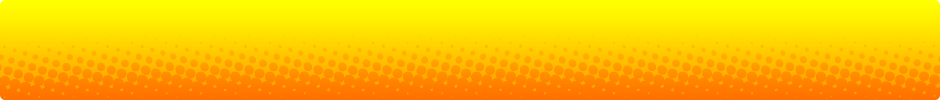
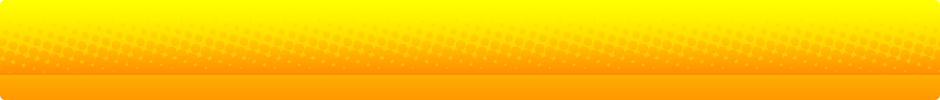
Tightened up nav and main nav
edited: _2Bhip_styles.css, index.html, mainNavBackground.png

diff --git a/_2Bhip_styles.css b/_2Bhip_styles.css
@@ -239,25 +239,26 @@ HEADER
 	width: 940px;	
 	background-color: #ffcc00;
 	margin: auto;
+	z-index: 1;
 }
 
 .mainNavBarContainer img {
 	position: absolute;
-	z-index: 1;	
+	top: 0px;
+	z-index: 0;	
 }
 
 .mainNavBarLinksContainer {
 	position: absolute;
 	height: 100px;
-	width: 940px;
-	z-index: 2;		
+	width: 940px;	
 }
 
 .mainNavBarLinks {
 	z-index: 3;
 	height: 40px;
 	width: 155px;
-	margin-top: 33px;
+	margin-top: 20px;
 	margin-left: 15px;
 	font-size: 31px;
 	float: left;	
@@ -268,9 +269,13 @@ HEADER
 }
 
 .navBarContainer {
+	position: absolute;
+	top: 235px;
+	left: 50%;
 	height: 50px;
 	width: 960px;
-	margin: auto;
+	margin-left: -480px;
+	z-index: 4;
 }
 
 
@@ -320,8 +325,6 @@ HEADER
 	text-align: center;
 }
 
-}
-
 .dropdown.leftAlign {
 	left: 0px;
 }
@@ -360,7 +363,9 @@ HEADER
 	height: 50px;
 	width: 940px;	
 	background-color: #000000;
-	margin: auto;
+	margin-top: 24px;
+	margin-left: auto;
+	margin-right: auto;
 }
 
 .freeShipping {

diff --git a/index.html b/index.html
@@ -20,7 +20,7 @@ var _gaq = _gaq || {'push':function(){}} //here for testing. REPLACE BEFORE DEPL
 var myCreole;
 
 var app = {vars:{
-	"release":"20130214122400",  //increment this with each change. should solve caching issues. format: YYYYMMDDHHMMSS
+	"release":"20130215084900",  //increment this with each change. should solve caching issues. format: YYYYMMDDHHMMSS
 	"_clientid":"zmvc",
 	"baseURL":"",
 	"httpsURL":"https://ssl.zoovy.com/s=www.toynk.zoovy.com/",
